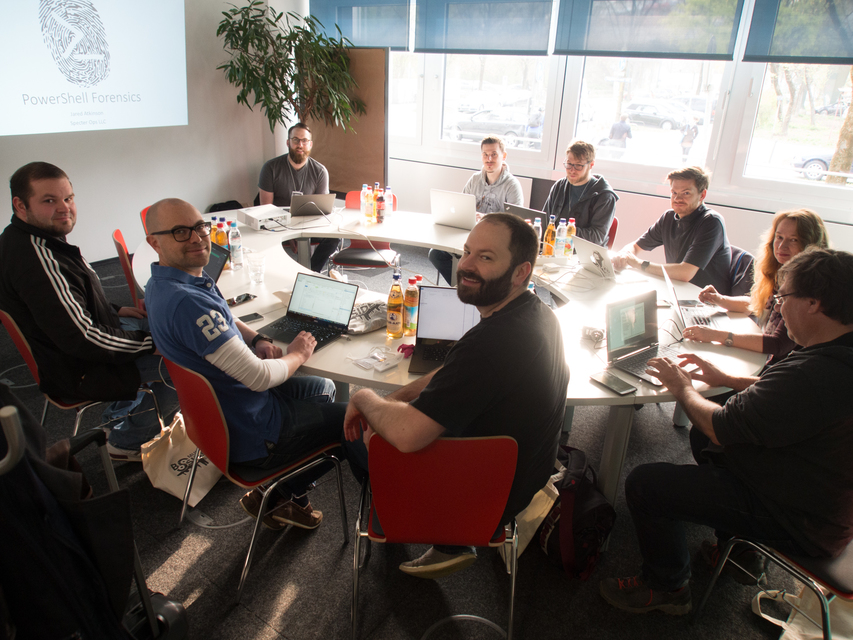
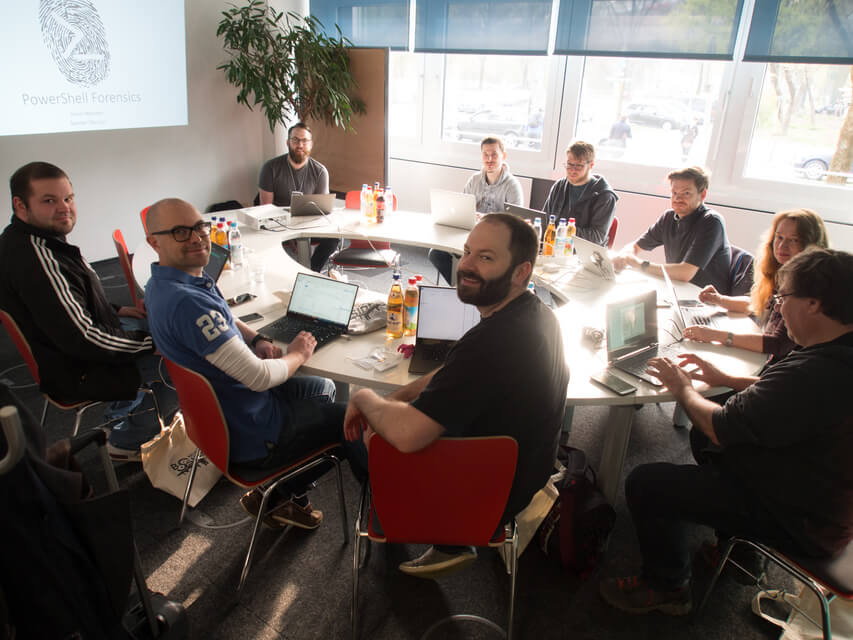
added Organizers page

diff --git a/team.html b/team.html
@@ -1,0 +1,119 @@
+---
+layout: page
+title: Meet the Team
+permalink: /team/
+---
+
+<!-- Wrapper Start -->
+<section id="intro">
+  <div class="container">
+
+    <div class="row">
+      <div class="col-md-12">
+        <div class="block">
+          <img src="/img/team-1.jpg">
+          <p align=center>Christoph, Jenn, Frederic, Claudia<br>Dagmar, Morton, Ana, Hugo</p>
+        </div>
+      </div><!-- .col-md-12 close //-->
+    </div>
+    
+    <div class="row">
+      <div class="col-md-12">
+        <div class="block">
+          <div class="section-title">
+            <h3>Christoph</h3>
+          </div>
+          <p>Immersed in diverse music and with a well-filled stash of cookies always at his side Christoph devotes free time to coding on random projects or hacking away at a CTF. While he descended from the blue range of his far Austrian mountains to work in Munich as a penetration tester, he still never quite got away from them: hiking and skiing are some favorite pastimes. Lately, he’s been learning Chinese: certainly, there is a way to decode that language also!</p>
+        </div>
+      </div>
+    </div>
+
+    <div class="row">
+      <div class="col-md-12">
+        <div class="block">
+          <div class="section-title">
+            <h3>Jenn</h3>
+          </div>
+          <p>Suffering from persistent earworms, Jenn works as an earthling pentester by day. Her nights are littered with tinkering, bouldering, jogging, coding, video-editing, music-making and TV-binging. She prefers to undertake difficult tasks with epic background music and perpetually seeks early-evening karaoke and jeans made for short-legged tall people. Jenn finds it difficult to fill this 70 word description because she’s used to describing things in less than 140 characters.</p>
+        </div>
+      </div>
+    </div>
+
+    <div class="row">
+      <div class="col-md-12">
+        <div class="block">
+          <div class="section-title">
+            <h3>Frederic</h3>
+          </div>
+          <p>With a background in lutherie and a career in infosec, Frederic enjoys making things as much as breaking them. He sees himself as a scripter, not coder and enjoys long breakfasts with tea, bread, jam and tons of RSS feeds. When he's not working as a security consultant or tearing software apart to find bugs, he can be found at Munich's boulder spots or hiking in the mountains.</p>
+        </div>
+      </div>
+    </div>
+    
+    <div class="row">
+      <div class="col-md-12">
+        <div class="block">
+          <div class="section-title">
+            <h3>Claudia</h3>
+          </div>
+          <p>With multiple degrees in Atmospheric Sciences, you might call Claudia a true Cloud Specialist!   These days her true passion is crusading for "Security, is it in your DNS?".  Otherwise Claudia enjoys lazy Sunday afternoons with the family, travelling to the last exit before the Antarctic, riding her push bike around the Munich countryside or reminiscing about the delightful rhodies in her hometown of Seattle.  </p>
+        </div>
+      </div>
+    </div>
+    
+    <div class="row">
+      <div class="col-md-12">
+        <div class="block">
+          <div class="section-title">
+            <h3>Dagmar</h3>
+          </div>
+          <p>Coming from a non-technical background, Dagmar brings her knowledge of event organization to BSides Munich. Through previous experiences in stage management / production for theatre in the UK and US, as well as SciFi conventions in Germany, she teamed up with her husband to organize events for the computer security industry. Having lived and worked in a variety of countries, she enjoys traveling the globe and going to the theater.</p>
+        </div>
+      </div>
+    </div>
+    
+    <div class="row">
+      <div class="col-md-12">
+        <div class="block">
+          <div class="section-title">
+            <h3>Morton</h3>
+          </div>
+          <p>Morton has been a pioneer in anti-virus and IDS research since it’s inception in the late 1980’s. After working on various anti-virus engines, from his own, through S&S International's (now McAfee) to IBM, he moved on to designing novel security models in the IoT and compliance space. More recently, he has been working at Trend Micro in Threat Research.</p>
+        </div>
+      </div>
+    </div>
+    
+    <div class="row">
+      <div class="col-md-12">
+        <div class="block">
+          <div class="section-title">
+            <h3>Ana</h3>
+          </div>
+          <p>The combination of Site Reliability Engineering and working on planning and strategy for Google's Technical Infrastructure have fit like a charm Ana's previous experience as Software Developer, Technical Consultant and Network Admin. After having worked and studied in Germany, France and Romania, she tries to take into account the different cultural approaches to every challenge. Outside work, she enjoys dancing, hiking in the Alps and watching a good movie or play.</p>
+        </div>
+      </div>
+    </div>
+    
+    <div class="row">
+      <div class="col-md-12">
+        <div class="block">
+          <div class="section-title">
+            <h3>Hugo</h3>
+          </div>
+          <p>IT Security Analyst with experience in black, white, grey box testing. Cloud expert with experience in events correlation and NBA Detection systems. Signatures creation and configuration. Risk surveys and mitigation. With the hobby of Malware analysis, Mobile malware analysis, Debugging and reverse engineering code :) He has a great Curiosity in learning how things work… He loves martial arts and he practices Shotokan Karate since he was 6 years old.</p>
+        </div>
+      </div>
+    </div>
+    
+    <br>
+    
+    <div class="row">
+      <div class="col-md-12">
+        <div class="block">
+          <img src="/img/team-2.jpg">
+        </div>
+      </div><!-- .col-md-12 close //-->
+    </div>
+    
+  </div>
+</section>

diff --git a/_includes/footer.html b/_includes/footer.html
@@ -52,7 +52,6 @@
         </div>
         <p>Copyright &copy; Design &amp; Developed by <a href="http://www.themefisher.com">Themefisher</a>. All rights reserved.</p>
         <p>We thank <a href="https://commons.wikimedia.org/wiki/User:StefanMeister">Stefan Meister</a> for his <a href="https://de.wikipedia.org/wiki/Datei:Silhouette_of_Munich.svg">contribution</a> to the BSidesMunich Logo.</p>
-        <p>Photo by Scott Webb from <a href="https://www.pexels.com/photo/equipment-pavement-security-security-camera-430208/">Pexels</a></p>
       </div>
     </div>
   </div>

diff --git a/_includes/header.html b/_includes/header.html
@@ -23,6 +23,7 @@
                 <li><a href="{{ site.baseurl | relative_url }}/registration">Registration</a></li>
                 <li><a href="{{ site.baseurl | relative_url }}/sponsors">Sponsors</a></li>
                 <li><a href="{{ site.baseurl | relative_url }}/codeofconduct">Code of Conduct</a></li>
+                <li><a href="{{ site.baseurl | relative_url }}/team">Team</a></li>
               </ul>
             </div><!-- /.navbar-collapse -->
           </div><!-- /.container-fluid -->
